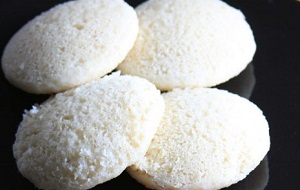
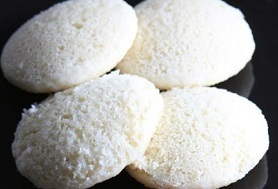
Removing border from image in search results to make it look better on mobiles

diff --git a/grubmenow-webapp/src/main/webapp/webassets/searchForm.html b/grubmenow-webapp/src/main/webapp/webassets/searchForm.html
@@ -55,10 +55,10 @@
     
 	    <div ng-show="searchedOnce" class="text-center container spacer" id="feedbackFormContainer">
 	        <div ng-show="submittingFeedback" class="spinner"></div>
-	        <div class="navLineBtn feedbackQL" ng-hide="noResults || showThankYouMessage">
+	        <div class="navLineBtn feedbackQL col-xs-12 col-md-8 text-center" ng-hide="noResults || showThankYouMessage">
 			     <span>Did you find what you were looking for?</span>
-                 <button ng-click="openFeedbackForm(1)" class="btn btnGo">Yes</button>
-                <button ng-click="openFeedbackForm(0)" class="btn btnGo">No</button>
+                  <button ng-click="openFeedbackForm(1)" class="btn btnGo">Yes</button>
+                  <button ng-click="openFeedbackForm(0)" class="btn btnGo">No</button>
             </div>
 			
 			<div ng-show="showFeedbackForm && !noResults" id="generalFeedbackForm" class="navLineBtn feedbackQL">

diff --git a/grubmenow-webapp/src/main/webapp/webassets/app.css b/grubmenow-webapp/src/main/webapp/webassets/app.css
@@ -82,9 +82,13 @@ a:active {
      height: 70px;
 }
 
-.thumbnail {
-     border: 5px solid #FFD446;
+.thumbnail, .img-thumbnail {
+    box-shadow: 0 0px 0px rgba(0, 0, 0, 0.075);
+    border: 0px;
+    padding: 0px;
+    margin-bottom: 5px;
 }
+
 
 .spacer {
      margin-top: 35px;
@@ -448,6 +452,12 @@ textarea {
 .borderFooter {
      border-top: 1px solid #DDDDDD;
 }
+
+/*
+.thumbnail {
+     border: 2px solid #ff8246;
+}
+*/
 
 .thumbnail>a>img {
      width: 245px;
